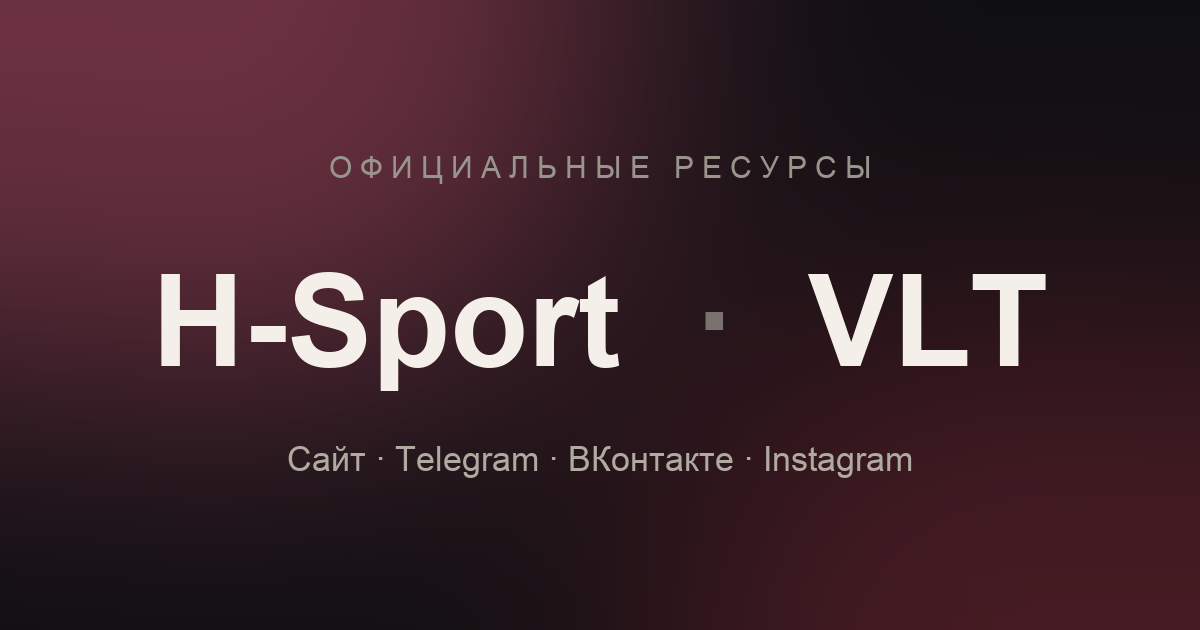
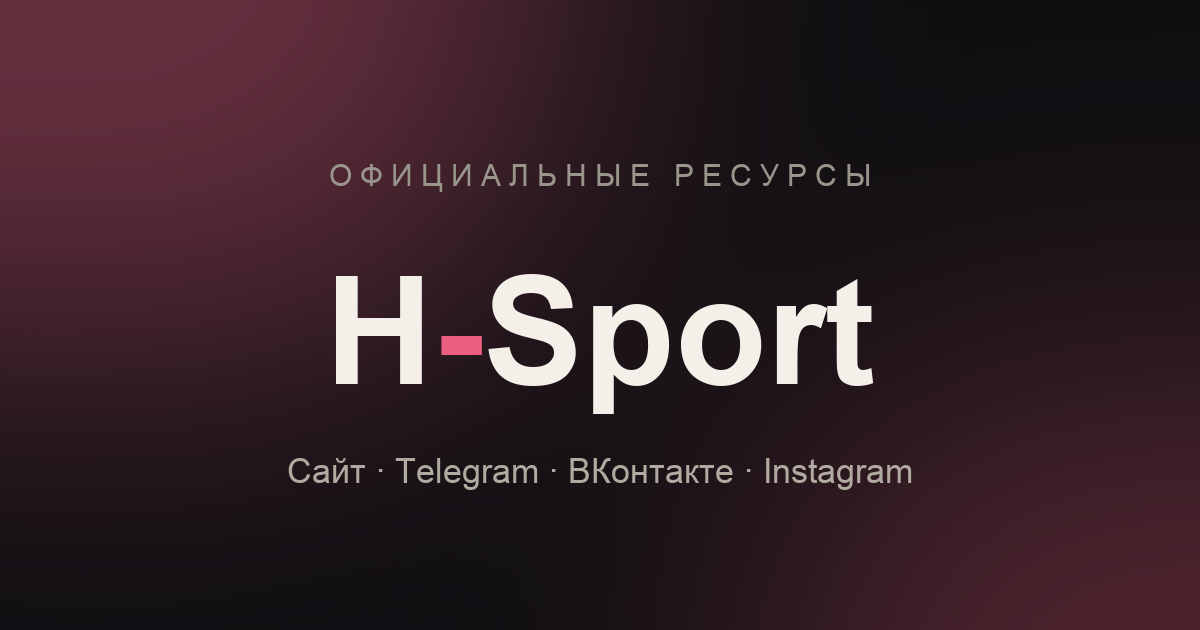
Оставлен только бренд H-Sport, VLT убран

diff --git a/index.html b/index.html
@@ -4,22 +4,22 @@
   <meta charset="utf-8">
   <meta name="viewport" content="width=device-width, initial-scale=1">
 
-  <title>H-Sport & VLT — официальные ресурсы брендов</title>
-  <meta name="description" content="Все официальные ссылки брендов H-Sport и VLT в одном месте: сайты, Telegram, ВКонтакте, Instagram. Женская спортивная и модная одежда.">
+  <title>H-Sport — официальные ресурсы бренда</title>
+  <meta name="description" content="Все официальные ссылки H-Sport в одном месте: сайт, Telegram, ВКонтакте, Instagram. Женская спортивная одежда.">
   <meta name="theme-color" content="#0F0F12">
   <meta name="color-scheme" content="dark">
 
   <!-- Open Graph -->
   <meta property="og:type" content="website">
-  <meta property="og:title" content="H-Sport & VLT — официальные ресурсы">
-  <meta property="og:description" content="Сайты, Telegram, ВКонтакте, Instagram двух брендов — H-Sport и VLT — в одной ссылке.">
+  <meta property="og:title" content="H-Sport — официальные ресурсы">
+  <meta property="og:description" content="Сайт, Telegram, ВКонтакте, Instagram бренда H-Sport — в одной ссылке.">
   <meta property="og:image" content="og-image.png">
   <meta property="og:locale" content="ru_RU">
 
   <!-- Twitter -->
   <meta name="twitter:card" content="summary_large_image">
-  <meta name="twitter:title" content="H-Sport & VLT — официальные ресурсы">
-  <meta name="twitter:description" content="Сайты, Telegram, ВКонтакте, Instagram двух брендов в одной ссылке.">
+  <meta name="twitter:title" content="H-Sport — официальные ресурсы">
+  <meta name="twitter:description" content="Сайт, Telegram, ВКонтакте, Instagram бренда H-Sport — в одной ссылке.">
   <meta name="twitter:image" content="og-image.png">
 
   <link rel="icon" href="favicon.svg" type="image/svg+xml">
@@ -61,7 +61,7 @@
       overflow-x:hidden;
     }
 
-    /* Ambient scene: two accent glows + faint vignette */
+    /* Ambient scene: coral accent glows + faint vignette */
     body::before{
       content:"";
       position:fixed;
@@ -69,7 +69,7 @@
       z-index:-2;
       background:
         radial-gradient(60% 45% at 18% 12%, rgba(235,96,129,.16), transparent 60%),
-        radial-gradient(60% 50% at 84% 86%, rgba(192,74,95,.15), transparent 62%),
+        radial-gradient(58% 50% at 85% 88%, rgba(235,96,129,.09), transparent 62%),
         radial-gradient(120% 90% at 50% 0%, rgba(255,255,255,.03), transparent 55%);
     }
     /* Subtle film grain */
@@ -132,9 +132,9 @@
       display:grid;
       gap:clamp(18px,4vw,26px);
       grid-template-columns:1fr;
-    }
-    @media (min-width:760px){
-      .brands{grid-template-columns:1fr 1fr;align-items:start}
+      max-width:480px;
+      width:100%;
+      margin-inline:auto;
     }
 
     .zone{
@@ -150,13 +150,6 @@
       padding:clamp(26px,5.5vw,40px) clamp(20px,4.5vw,34px) clamp(24px,5vw,34px);
       overflow:hidden;
       isolation:isolate;
-    }
-    .zone--vlt{
-      --accent:#7E2436;
-      --accent-2:#CD5064;
-      --icon:#CD5064;
-      --ink:#F7EFEC;
-      --glow:rgba(192,74,95,.20);
     }
     /* Accent glow behind wordmark */
     .zone::before{
@@ -195,13 +188,7 @@
       font-weight:800;
       font-size:clamp(2.7rem,11vw,4rem);
     }
-    .zone--vlt .wordmark{
-      font-weight:600;
-      font-size:clamp(2.7rem,11vw,4rem);
-      letter-spacing:.06em;
-    }
     .wordmark span{color:var(--accent)}
-    .zone--vlt .wordmark span{color:var(--accent-2)}
     .tagline{
       margin:.85em 0 0;
       color:var(--muted);
@@ -318,7 +305,7 @@
   <main class="wrap">
     <header class="intro reveal">
       <span class="intro__eyebrow">Официальные ресурсы</span>
-      <p class="intro__title">Два бренда — <b>H-Sport</b> и <b>VLT</b>. Все ссылки в одном месте.</p>
+      <p class="intro__title"><b>H-Sport</b> — все официальные ссылки в одном месте.</p>
     </header>
 
     <div class="brands">
@@ -349,37 +336,11 @@
         </nav>
       </section>
 
-      <!-- VLT -->
-      <section class="zone zone--vlt reveal" aria-labelledby="vlt-title">
-        <div class="zone__head">
-          <h1 class="wordmark" id="vlt-title">VL<span>T</span></h1>
-          <p class="tagline">Оставайся собой.</p>
-        </div>
-        <nav class="links" aria-label="Ссылки VLT">
-          <a class="link" href="https://vlt-shop.ru/" target="_blank" rel="noopener noreferrer">
-            <span class="link__icon" aria-hidden="true"><svg viewBox="0 0 24 24" fill="none" stroke="currentColor" stroke-width="1.7" stroke-linecap="round" stroke-linejoin="round"><circle cx="12" cy="12" r="9.2"/><path d="M2.8 12h18.4M12 2.8c2.4 2.5 3.6 5.8 3.6 9.2s-1.2 6.7-3.6 9.2c-2.4-2.5-3.6-5.8-3.6-9.2S9.6 5.3 12 2.8Z"/></svg></span>
-            <span class="link__label">Сайт</span>
-          </a>
-          <a class="link" href="https://t.me/vlt_wear" target="_blank" rel="noopener noreferrer">
-            <span class="link__icon" aria-hidden="true"><svg viewBox="0 0 24 24" fill="currentColor"><path d="M21.94 4.4 18.9 19.13c-.23 1.04-.84 1.29-1.7.8l-4.7-3.46-2.27 2.18c-.25.25-.46.46-.95.46l.34-4.83 8.78-7.93c.38-.34-.08-.53-.6-.19L6.18 13.27 1.55 11.8c-1-.32-1.03-1.01.21-1.5L20.6 2.9c.84-.31 1.58.2 1.34 1.5Z"/></svg></span>
-            <span class="link__label">Telegram</span>
-          </a>
-          <a class="link" href="https://vk.com/club228701096" target="_blank" rel="noopener noreferrer">
-            <span class="link__icon" aria-hidden="true"><svg viewBox="0 0 24 24" fill="currentColor"><path d="M13.16 16.86c-5.46 0-8.94-3.84-9.08-10.22h2.74c.1 4.68 2.22 6.66 3.86 7.06V6.64h2.62v3.94c1.58-.17 3.24-2 3.8-3.94h2.58c-.43 2.36-2.2 4.2-3.46 4.96 1.26.62 3.28 2.22 4.06 5.26h-2.86c-.6-1.9-2.1-3.38-4.12-3.58v3.58h-.6Z"/></svg></span>
-            <span class="link__label">ВКонтакте</span>
-          </a>
-          <a class="link" href="https://www.instagram.com/vlt_wear?igsh=MXE3bWIwanE0dGNjdQ==" target="_blank" rel="noopener noreferrer">
-            <span class="link__icon" aria-hidden="true"><svg viewBox="0 0 24 24" fill="currentColor"><path d="M12 2.16c3.2 0 3.58.01 4.85.07 1.17.05 1.8.25 2.23.41.56.22.96.48 1.38.9.42.42.68.82.9 1.38.16.43.36 1.06.41 2.23.06 1.27.07 1.65.07 4.85s-.01 3.58-.07 4.85c-.05 1.17-.25 1.8-.41 2.23-.22.56-.48.96-.9 1.38-.42.42-.82.68-1.38.9-.43.16-1.06.36-2.23.41-1.27.06-1.65.07-4.85.07s-3.58-.01-4.85-.07c-1.17-.05-1.8-.25-2.23-.41a3.7 3.7 0 0 1-1.38-.9 3.7 3.7 0 0 1-.9-1.38c-.16-.43-.36-1.06-.41-2.23C2.17 15.58 2.16 15.2 2.16 12s.01-3.58.07-4.85c.05-1.17.25-1.8.41-2.23.22-.56.48-.96.9-1.38.42-.42.82-.68 1.38-.9.43-.16 1.06-.36 2.23-.41C8.42 2.17 8.8 2.16 12 2.16Zm0-2.16C8.74 0 8.33.01 7.05.07 5.78.13 4.9.33 4.14.63a5.9 5.9 0 0 0-2.13 1.38A5.9 5.9 0 0 0 .63 4.14c-.3.76-.5 1.64-.56 2.91C.01 8.33 0 8.74 0 12s.01 3.67.07 4.95c.06 1.27.26 2.15.56 2.91.3.79.71 1.46 1.38 2.13.67.67 1.34 1.08 2.13 1.38.76.3 1.64.5 2.91.56C8.33 23.99 8.74 24 12 24s3.67-.01 4.95-.07c1.27-.06 2.15-.26 2.91-.56a5.9 5.9 0 0 0 2.13-1.38 5.9 5.9 0 0 0 1.38-2.13c.3-.76.5-1.64.56-2.91.06-1.28.07-1.69.07-4.95s-.01-3.67-.07-4.95c-.06-1.27-.26-2.15-.56-2.91a5.9 5.9 0 0 0-1.38-2.13A5.9 5.9 0 0 0 19.86.63c-.76-.3-1.64-.5-2.91-.56C15.67.01 15.26 0 12 0Zm0 5.84A6.16 6.16 0 1 0 18.16 12 6.16 6.16 0 0 0 12 5.84Zm0 10.16a4 4 0 1 1 4-4 4 4 0 0 1-4 4Zm6.41-10.4a1.44 1.44 0 1 0 1.44 1.44 1.44 1.44 0 0 0-1.44-1.44Z"/></svg></span>
-            <span class="link__label">Instagram</span>
-          </a>
-        </nav>
-      </section>
-
     </div>
   </main>
 
   <footer class="footer reveal">
-    <p class="footer__copy">© 2025 H-Sport &amp; VLT. Все права защищены.</p>
+    <p class="footer__copy">© 2025 H-Sport. Все права защищены.</p>
     <p class="footer__legal">Instagram принадлежит компании Meta, признанной экстремистской организацией и запрещённой на территории РФ.</p>
     <p class="footer__credit">Создано <a href="https://s2k.studio" target="_blank" rel="noopener noreferrer">s2k.studio</a></p>
   </footer>